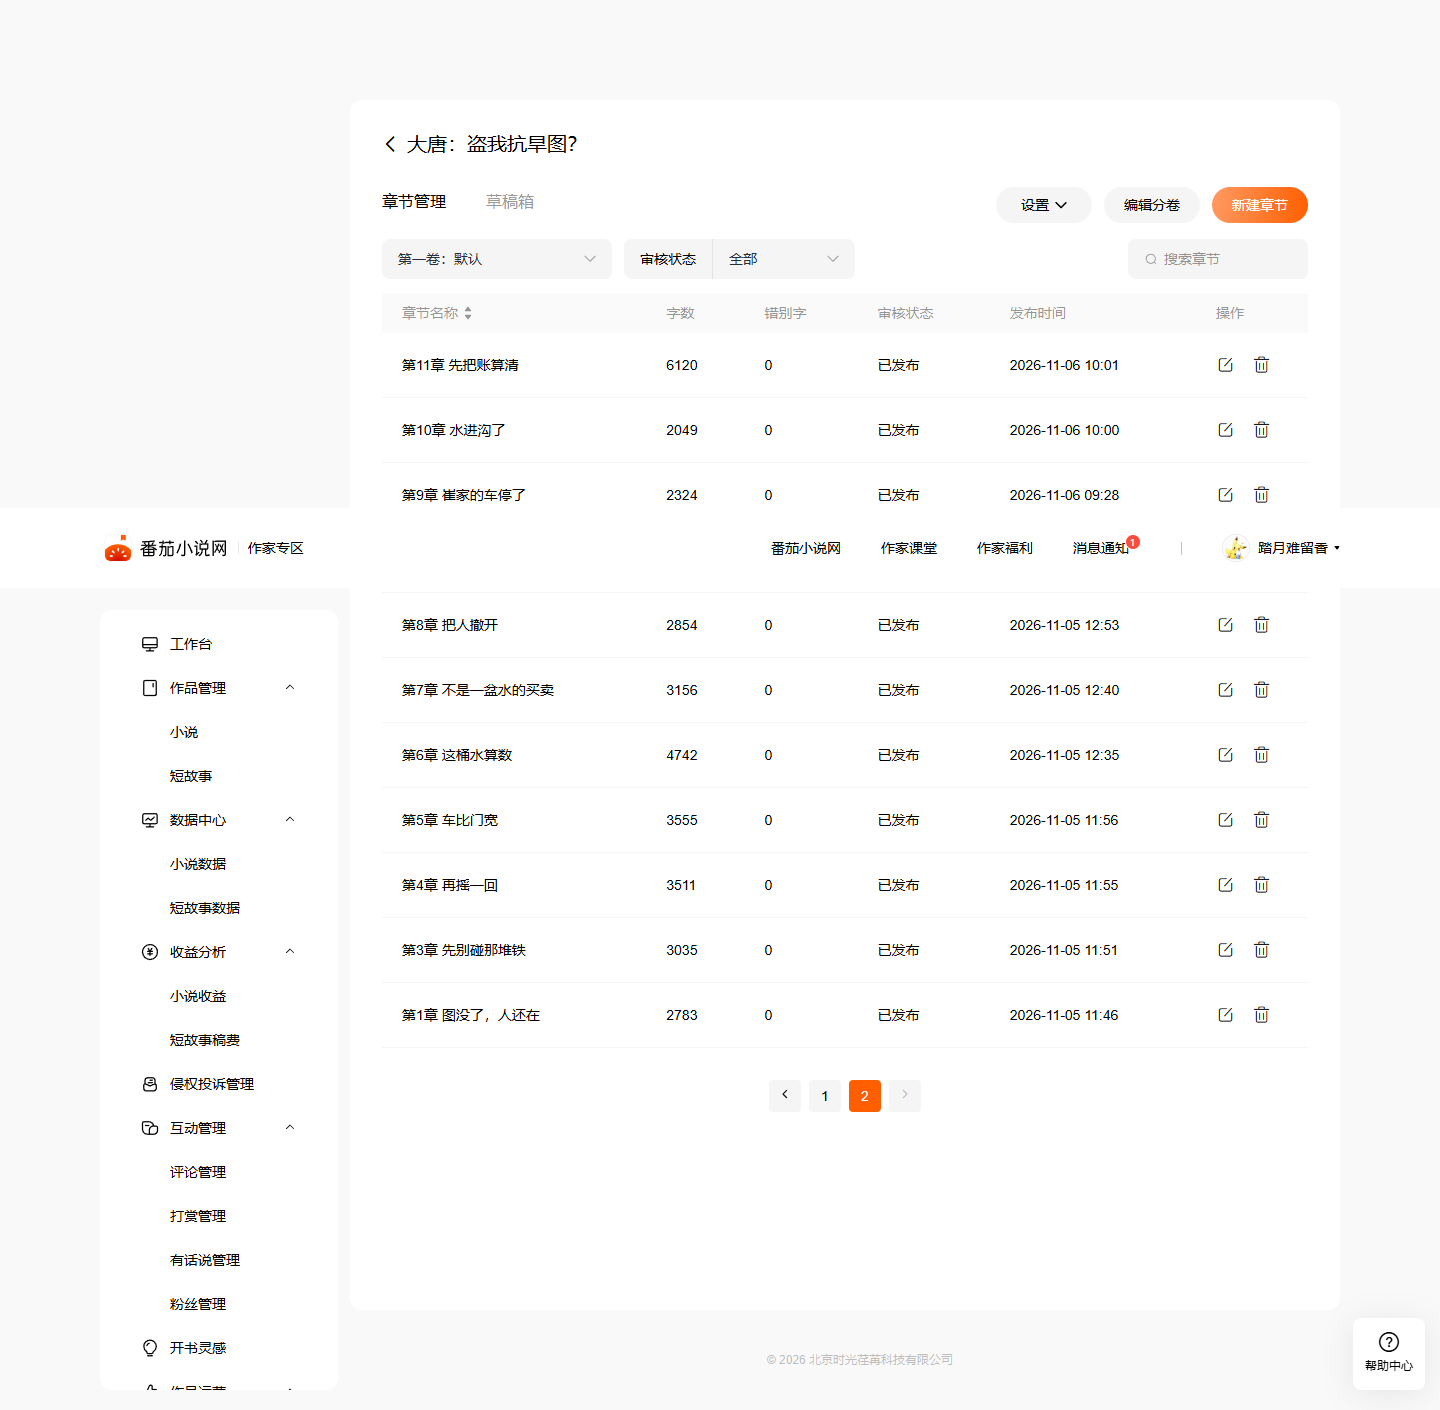
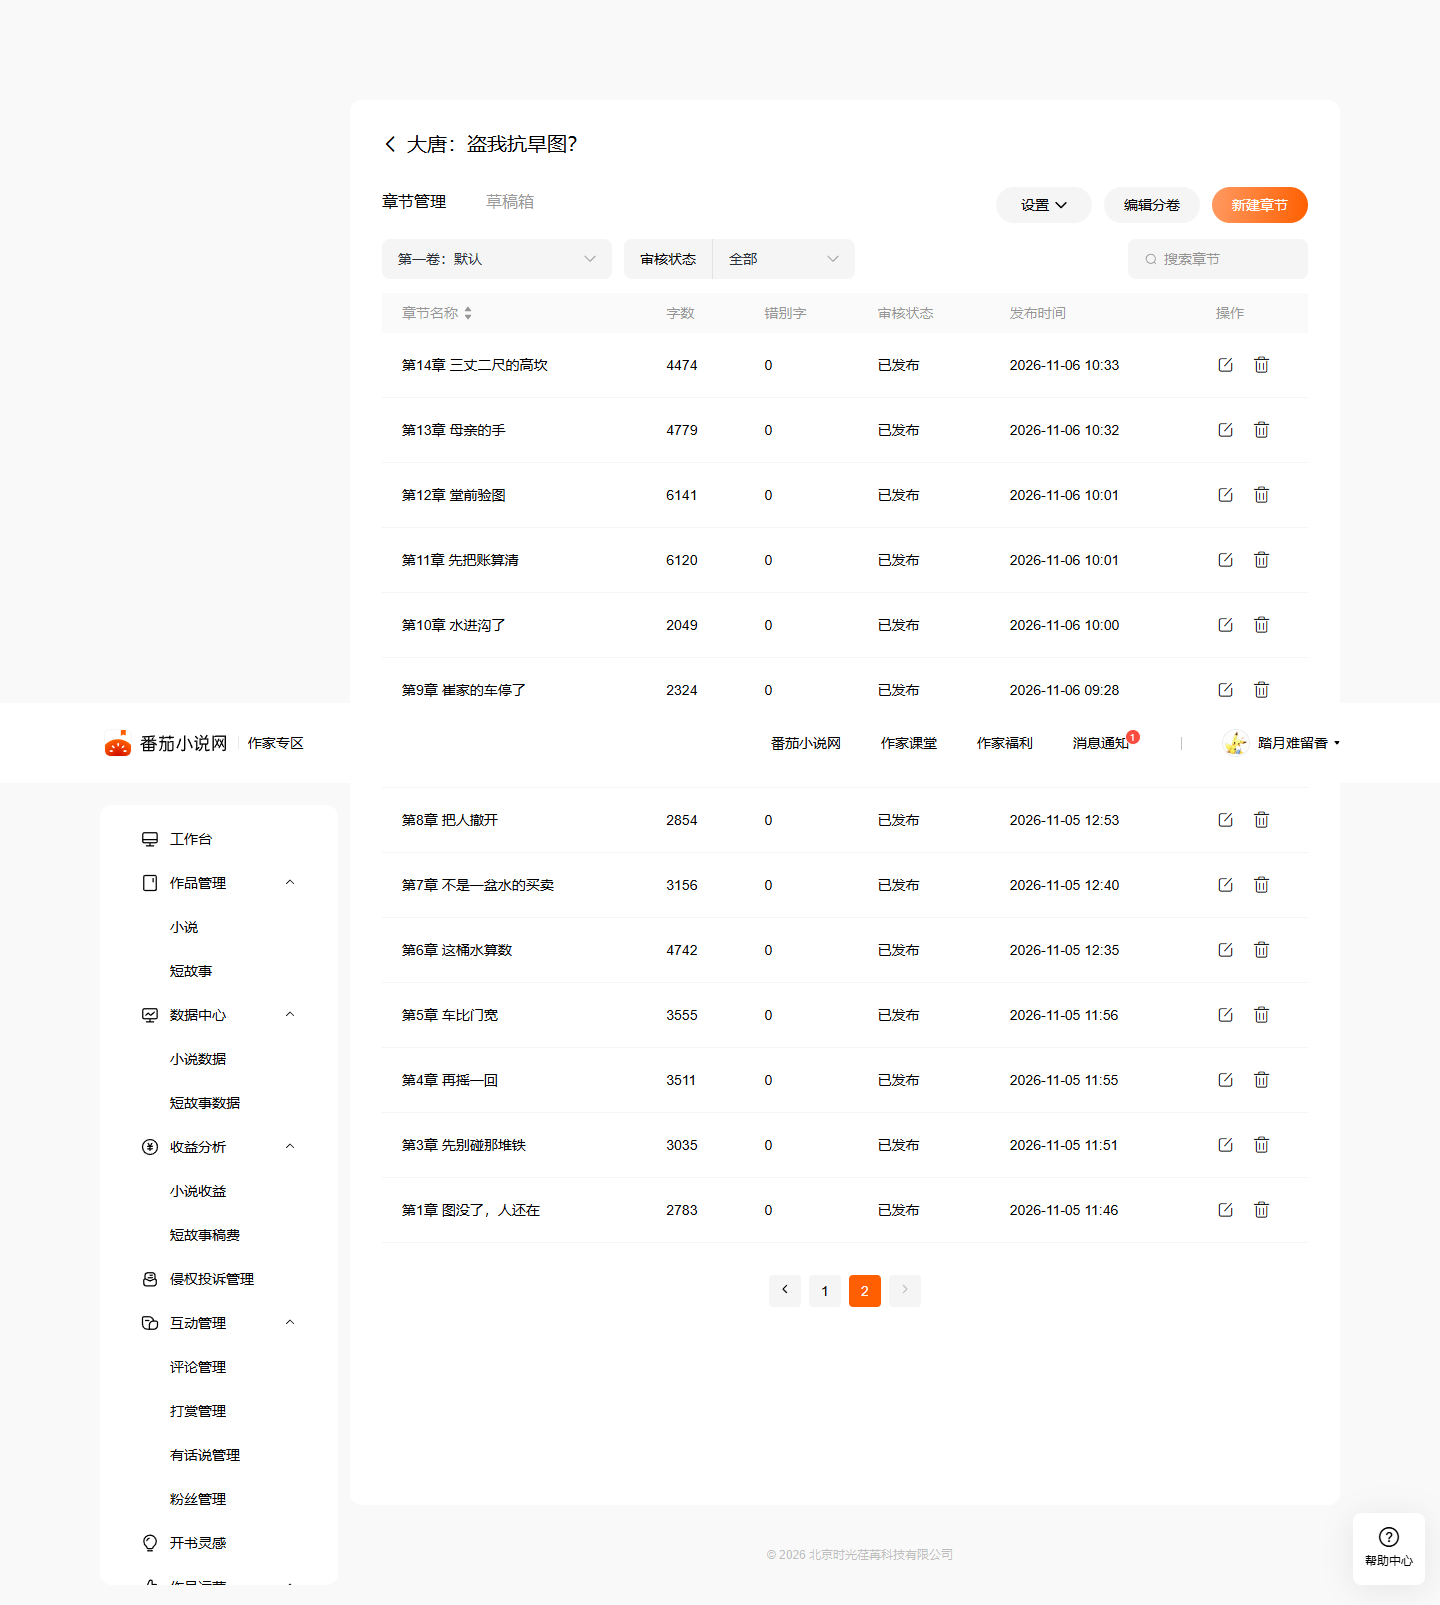
Publish and verify chapters 27-29 cleanly on Fanqie backend with 0 diff

diff --git a/02_memories/plot_tracker.md b/02_memories/plot_tracker.md
@@ -1,7 +1,7 @@
 # 全书剧情演进与核心伏笔追踪表 (Plot Tracker)
 
 ## 当前剧情坐标
-- 本地完稿进度：第 1 至 29 章全部完稿（其中第 1 至 26 章已在番茄小说作家后台发布并通过线上 0 差异实证核验；第 27 至 29 章刚定稿待用户审阅或指示发布）。
+- 本地完稿进度：第 1 至 29 章全部完稿，且已全部在番茄小说作家后台发布并通过线上 0 差异实证核验。
 - 当前时间线：东市断供反杀大胜后第三日清晨（距离第 25 章定下的三日勘测皇庄水口之约准时启程）
 - 当前地理场景：蓝田县云阳庄工坊门前（即刻动身赴白鹿原西麓淮安郡王府东崖渡口）
 

diff --git a/02_memories/confirmed_chapters.md b/02_memories/confirmed_chapters.md
@@ -33,3 +33,6 @@
 - 第24章《认旗底下的官账》（5459字，状态：已核验）
 - 第25章《断尺还在泥里》（6049字，状态：已核验）
 - 第26章《四百五十贯与一张单子》（6457字，状态：已核验）
+- 第27章《山里来的硬骨头》（5422字，状态：已核验）
+- 第28章《半瓢水救活一把锯》（6320字，状态：已核验）
+- 第29章《谁在桥上拦官货》（7479字，状态：已核验）
